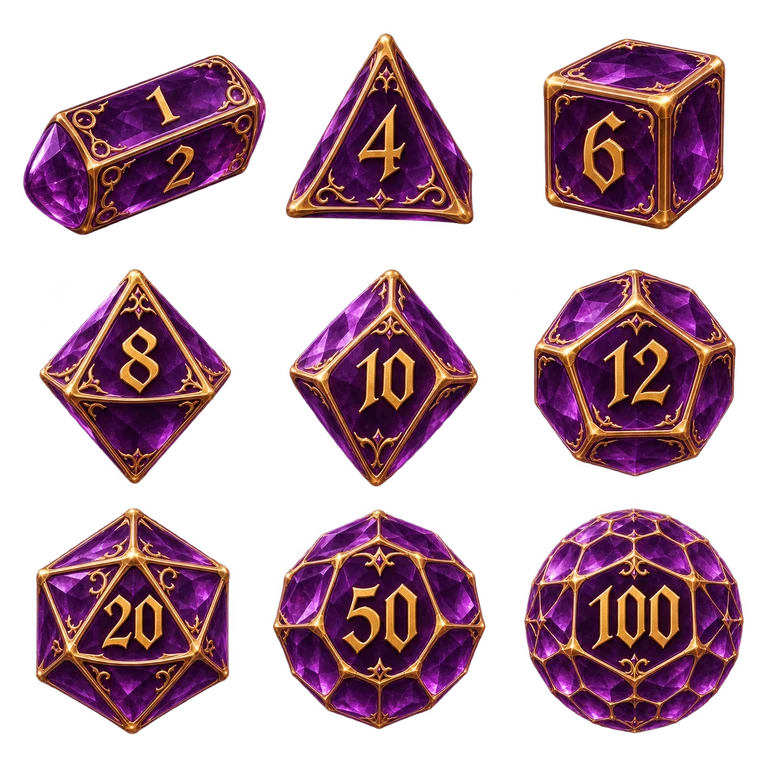
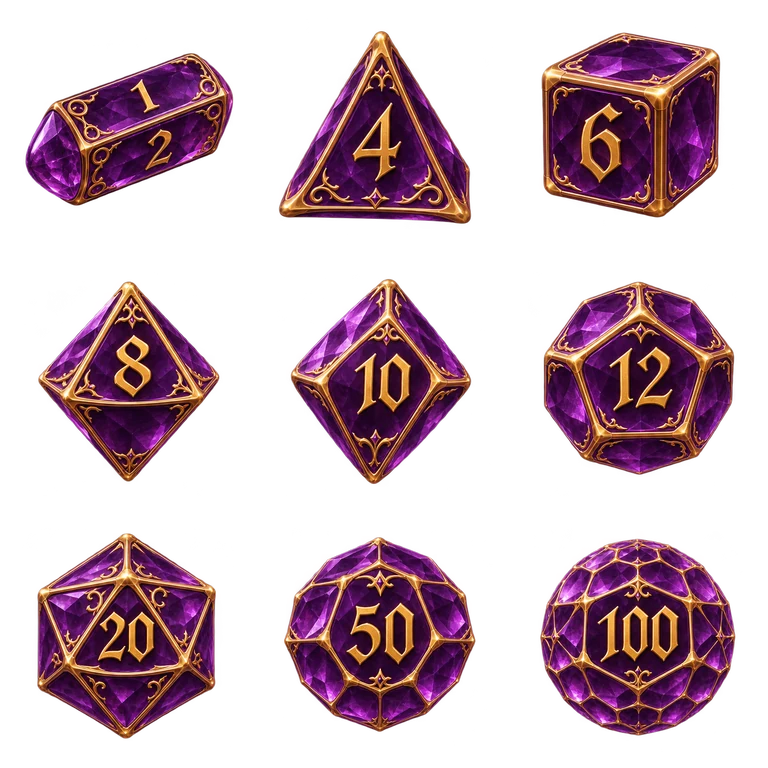
Refine dice artwork gutters, percentile face labels and navigation preview

diff --git a/Oathkeeper/web/app.js b/Oathkeeper/web/app.js
@@ -34,7 +34,7 @@ if(tab==='Dice')html=dicePage(diceState);
 if(tab==='Settings')html=`<div class="grid"><section class="card wide"><h2>Settings</h2><div class="settings-links"><button data-tab="Notification settings">Notifications</button><button data-tab="Help">Help</button><button data-tab="About">About</button></div><h3>Privacy &amp; your data</h3><p>Your character and imported PDF text stay on your device. There are no ads or analytics. Optional community accounts, posts, uploads and messages use the online community service. Nothing from your local character is uploaded automatically. Exporting a backup shares only the file you choose, using your device’s sharing controls.</p><p>Uninstalling the app or clearing its data may erase your character. Export a separate backup regularly. Device operating-system backups may include app data, depending on your settings.</p><a class="button" href="privacy.html">Read privacy policy</a><p>Oathkeeper 1.0.0 · Independent tabletop character companion.</p></section><section class="card"><h2>Dice roller</h2><label>Die<select id="die">${[4,6,8,10,12,20,100].map(n=>`<option value="${n}">d${n}</option>`).join('')}</select></label><button data-action="roll">Roll die</button><p id="rollResult" role="status">Choose a die and roll.</p></section><section class="card full"><h2>Start over</h2><p>Reset erases this device’s character. Export a backup first if you want to keep it.</p><button data-action="reset">Reset character…</button><div id="resetConfirm" hidden><p>Erase this character and restore the starting profile?</p><button data-action="reset-confirm">Yes, erase and reset</button><button data-action="reset-cancel">Cancel</button></div></section></div>`;
 if(['Community','Posts','Friends','Messages','Groups'].includes(tab))html=(`${['Community','Posts','Groups'].includes(tab)?`<section class="card"><h2>Community</h2><div class="row" role="group" aria-label="Community sections"><button data-tab="Groups" aria-pressed="${tab==='Groups'}">Groups</button><button data-tab="Posts" aria-pressed="${tab==='Community'||tab==='Posts'}">Posts</button></div></section>`:''}<div id="communityRoot"></div>`);
 if(tab==='Import & backup')html=`<div class="grid"><section class="card wide"><span class="eyebrow">Bring your character</span><h2>Import once. Keep adventuring.</h2><p>Import a character PDF, plain text, or an Oathkeeper JSON backup. Text PDFs are read on your device; scans need OCR before import.</p><button class="primary" data-action="import">Choose character file</button><p class="notice">Your Ecclesyus profile is already loaded from your sheet. This importer recognizes its form fields and common stat labels. Other PDFs may import only some fields. Review every proposed change; inventory and custom rules need manual entry for unfamiliar sheets.</p></section><section class="card"><h2>Take it with you</h2><button data-action="export">Export full backup</button><p>JSON includes your stats, equipment, notes and resources. Import it here on another device.</p><button data-action="install">Phone setup</button><p><small>Data stays on this device and does not sync automatically.</small></p></section></div>`;
-$('#view').innerHTML=html;document.querySelectorAll('button').forEach(button=>{for(const node of [...button.childNodes]){if(node.nodeType===3&&node.textContent.trim()){const span=document.createElement('span');span.className='gold-text';span.textContent=node.textContent;node.replaceWith(span)}}});if(['Community','Posts','Friends','Messages','Groups','Account'].includes(tab))mountCommunity($('#communityRoot'),tab==='Account',tab);document.querySelectorAll('.equipment-name').forEach(fitEquipmentName);save()}
+$('#view').innerHTML=html;document.querySelectorAll('button').forEach(button=>{for(const node of [...button.childNodes]){if(node.nodeType===3&&node.textContent.trim()){const span=document.createElement('span');span.className='gold-text';span.textContent=node.textContent;node.replaceWith(span)}}});if(['Community','Posts','Friends','Messages','Groups','Account'].includes(tab))mountCommunity($('#communityRoot'),tab==='Account',tab);document.querySelectorAll('.equipment-name').forEach(fitEquipmentName);if(tab==='Dice'){const nav=document.querySelector('#nav');requestAnimationFrame(()=>{nav.scrollLeft=nav.scrollWidth})}save()}
 function fitEquipmentName(t){t.style.height='auto';t.style.height=t.scrollHeight+2+'px'}
 window.addEventListener('resize',()=>document.querySelectorAll('.equipment-name').forEach(fitEquipmentName));
 function refresh(){save();render()}

diff --git a/Oathkeeper/web/dice-ui.js b/Oathkeeper/web/dice-ui.js
@@ -1,7 +1,7 @@
 import { OFFICIAL_DICE, UNOFFICIAL_DICE, diceStatistics } from './dice.js';
 const order = [3,4,6,8,10,12,20,50,100];
 const number = n => Number(n).toLocaleString(undefined, { maximumFractionDigits: 2 });
-const art = n => `<span class="die-art die-art-${n}" aria-hidden="true" style="--die-x:${order.indexOf(n)%3};--die-y:${Math.floor(order.indexOf(n)/3)}"></span>`;
+const art = (n,face) => `<span class="die-art die-art-${n}" aria-hidden="true" style="--die-x:${order.indexOf(n)%3};--die-y:${Math.floor(order.indexOf(n)/3)}">${face===undefined?'':`<span class="die-face-overlay">${face}</span>`}</span>`;
 export function dicePage(state) {
   const list = state.mode === 'official' ? OFFICIAL_DICE : UNOFFICIAL_DICE;
   const s = diceStatistics(state.sides, state.quantity, state.modifier);
@@ -13,7 +13,7 @@ export function dicePage(state) {
       <button data-dice-mode="unofficial" aria-pressed="${state.mode==='unofficial'}" class="${state.mode==='unofficial'?'selected':''}">Unofficial dice</button>
     </div>
     <section class="card dice-card"><div class="dice-grid" role="group" aria-label="Choose a die">
-      ${list.map(n=>`<button class="die-tile ${state.sides===n?'selected':''} ${state.mode==='official'&&n===100?'percentile-tile':''}" data-die="${n}" aria-label="D${n}${state.mode==='official'&&n===100?' percentile':state.mode==='official'&&n===3?' simulated with D6':''}" aria-pressed="${state.sides===n}"><span class="die-label">D${n}${state.mode==='official'&&n===100?' · Percentile':''}</span>${state.mode==='official'&&n===100?`<span class="percentile-art">${art(10)}${art(10)}<span class="percentile-caption">00 + 0</span></span>`:art(n)}${state.mode==='official'&&n===3?'<small>D6 ÷ 2, rounded up</small>':''}</button>`).join('')}
+      ${list.map(n=>`<button class="die-tile ${state.sides===n?'selected':''} ${state.mode==='official'&&n===100?'percentile-tile':''}" data-die="${n}" aria-label="D${n}${state.mode==='official'&&n===100?' percentile':state.mode==='official'&&n===3?' simulated with D6':''}" aria-pressed="${state.sides===n}"><span class="die-label">D${n}${state.mode==='official'&&n===100?' · Percentile':''}</span>${state.mode==='official'&&n===100?`<span class="percentile-art">${art(10,'00')}${art(10,'0')}<span class="percentile-caption">00 + 0</span></span>`:art(n)}${state.mode==='official'&&n===3?'<small>D6 ÷ 2, rounded up</small>':''}</button>`).join('')}
     </div>${state.mode==='official'?'<p class="dice-note">D100: 00 + 0 = 100. D3 uses a D6, divided by 2 and rounded up.</p>':''}
     <form id="diceForm" class="dice-controls"><label>Quantity<input id="diceQuantity" type="number" min="1" max="100" step="1" required value="${state.quantity}"></label><label>Modifier<input id="diceModifier" type="number" min="-10000" max="10000" step="1" required value="${state.modifier}"></label><button type="submit" class="dice-roll">Roll dice</button></form>
     <div class="dice-result" role="status" aria-live="polite"><span>Result</span><strong class="gold-text">${r?number(r.total):'—'}</strong></div>

diff --git a/Oathkeeper/web/fantasy.css b/Oathkeeper/web/fantasy.css
@@ -41,3 +41,5 @@ input[type=number],.big small,.die-label,.dice-result strong{font-family:Chronic
 .dice-card{padding:12px}.dice-grid{display:grid;grid-template-columns:repeat(3,minmax(0,1fr));gap:7px}.die-tile{display:flex;flex-direction:column;align-items:center;justify-content:flex-start;min-width:0;border:1px solid #a58da9;border-radius:10px;background:linear-gradient(145deg,#111424,#201329);padding:5px 2px;font-size:20px;overflow:hidden}.die-label{display:block;white-space:nowrap}.die-art{display:block;width:100%;aspect-ratio:1;background-image:url('/art/fantasy-dice.webp');background-size:300% 300%;background-position:calc(var(--die-x)*50%) calc(var(--die-y)*50%);background-repeat:no-repeat}.die-tile small{font-family:Georgia,serif;font-size:10px;line-height:1.3;text-align:center;margin-top:2px;color:#f2dcaa}.percentile-tile{grid-column:span 2}.percentile-art{display:flex;position:relative;width:100%;max-height:102px}.percentile-art .die-art{width:50%}.percentile-caption{position:absolute;bottom:0;left:0;right:0;text-align:center;font-size:16px;text-shadow:0 1px 3px #000}.dice-note{font:12px/1.5 Georgia,serif;color:#e1c794;margin:8px 0}.dice-controls{display:grid;grid-template-columns:1fr 1fr 1.4fr;gap:8px;align-items:end;margin:12px 0}.dice-controls label{display:flex;flex-direction:column;align-items:stretch;gap:4px;margin:0;font-size:17px}.dice-controls input[type=number]{width:100%;min-width:0;font-size:23px;padding:6px;text-align:center}.dice-controls button{padding:9px 4px;font-size:20px;min-height:44px}.dice-result{display:flex;align-items:center;justify-content:space-between;border:1px solid #c9a565;border-radius:9px;padding:8px 14px;font-size:24px}.dice-result strong{font-size:36px;overflow-wrap:anywhere}.dice-breakdown{overflow-wrap:anywhere;font-family:Chronicle,Georgia,serif;line-height:1.5;font-size:20px}.dice-error{font:14px Georgia,serif;color:#ffcebd}.dice-error:empty{display:none}.dice-probabilities{margin-top:12px;font-size:16px}.dice-probabilities p{font:13px/1.6 Georgia,serif;color:#e1c794}.dice-roll:focus-visible,.die-tile:focus-visible{outline:2px solid #ffe6ab;outline-offset:2px}
 @font-face{font-family:ChronicleNumbers;src:url('/fonts/gothic.ttf') format('truetype');font-weight:100 900;font-display:swap;unicode-range:U+0030-0039}
 .eyebrow,.dice-note,.dice-probabilities p{font-family:ChronicleNumbers,Georgia,serif}
+
+#nav{scroll-snap-type:none}.die-art{position:relative}.die-face-overlay{position:absolute;left:22%;top:37%;width:56%;height:31%;display:flex;align-items:center;justify-content:center;background:radial-gradient(ellipse,#4e1c69,#321140 80%);color:#f1d28a;font:700 23px/1 Chronicle,Georgia,serif;text-shadow:0 1px 2px #13051b;clip-path:polygon(50% 0,100% 35%,50% 100%,0 35%)}
